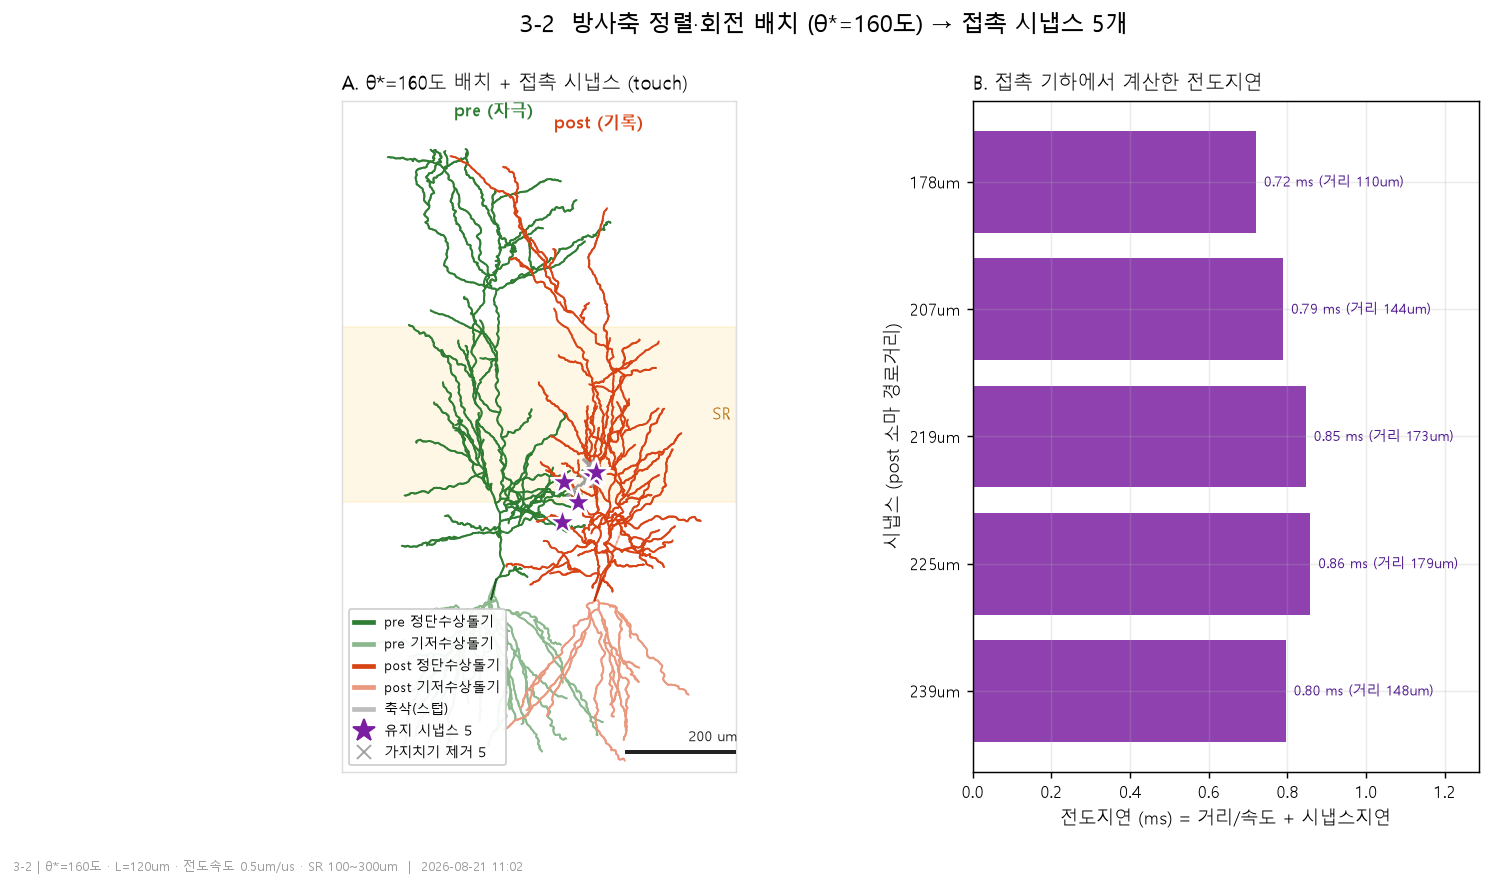
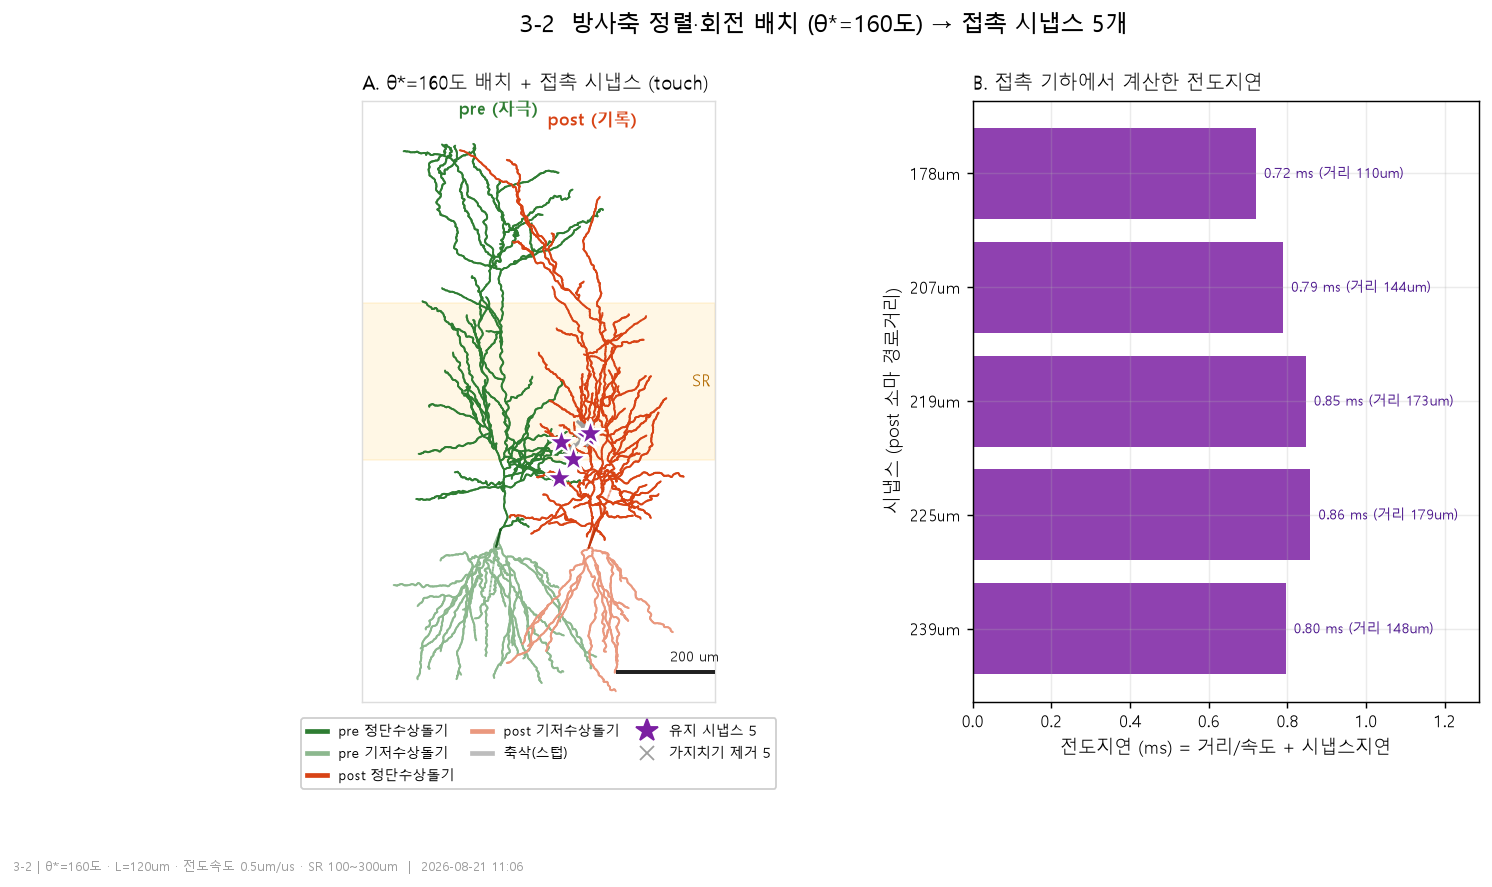
04 3-2: 기하 고정 + 범례를 뉴런 밖으로
- 범례를 축 아래 바깥(3열)으로 빼서 뉴런과 겹치지 않게.
- ★ 기하 확정: config/geometry.yaml 에 pre/post·θ*=160도·L=120um·시냅스 5개
  (apic[21,109,36,37,29], 지연 0.72~0.86ms) 박음. 사용자 지시 'fix'.
- lib/bench.Bench: 확정 기하를 재현하는 로더. 두 세포 로드 + 5개 시냅스 구획 제공.
  이후 단계는 배치 재탐색 없이 이 벤치 위에 메커니즘만 얹는다. 재현 확인 완료.
- D8 갱신, PIPELINE 3-2 '기하 고정' 표기.

diff --git a/04_Synaptic_plasticity_Simulation/lib/bench.py b/04_Synaptic_plasticity_Simulation/lib/bench.py
@@ -1,0 +1,58 @@
+# -*- coding: utf-8 -*-
+"""lib/bench.py — 확정 기하 벤치 로더 (번호 없음 = import 전용 모듈)
+
+3-2 에서 고정한 기하(config/geometry.yaml)를 그대로 재현한다. 이후 모든 단계
+(전달 검증·가소성 엔진·실험)는 이 모듈로 동일한 두 세포와 동일한 시냅스 위치를 얻는다.
+=> 단계마다 배치를 다시 탐색하지 않는다. 기하는 fix 됐다. (docs/DECISIONS.md D8)
+
+시냅스 '위치'만 고정한다. 위에 올릴 시냅스 메커니즘(전도도·수용체·가소성 엔진)은
+호출자가 정한다 -- 그게 이 벤치의 목적이다.
+"""
+import os
+import yaml
+
+from lib import cells
+from lib.nrnenv import h
+
+_ROOT = os.path.dirname(os.path.dirname(os.path.abspath(__file__)))
+_REPO = os.path.dirname(_ROOT)
+
+
+def load_geometry():
+    with open(os.path.join(_ROOT, "config", "geometry.yaml"), "r", encoding="utf-8") as f:
+        return yaml.safe_load(f)
+
+
+class Bench:
+    """확정 기하의 두 세포 + 시냅스 위치. NEURON 객체 참조를 붙잡아 GC 를 막는다."""
+
+    def __init__(self, geo=None):
+        self.geo = geo or load_geometry()
+        mr = os.path.join(_REPO, "Models")
+        self.pre, _ = cells.load_cell(os.path.join(mr, self.geo["pair"]["pre_bundle"]), "pre")
+        self.post, _ = cells.load_cell(os.path.join(mr, self.geo["pair"]["post_bundle"]), "post")
+        self._sec = {s.name().split(".")[-1]: s for s in self.post.all}
+        self.syn_specs = self.geo["synapses"]     # section·delay·... (위치 정보)
+
+    def post_syn_segs(self, x=0.5):
+        """확정 시냅스가 놓일 post 세그먼트 목록 [(seg, spec), ...]."""
+        out = []
+        for spec in self.syn_specs:
+            sec = self._sec.get(spec["section"])
+            if sec is None:
+                raise KeyError(f"확정 시냅스 구획 없음: {spec['section']} "
+                               f"(post 세포가 바뀌었는가? config/geometry.yaml 확인)")
+            out.append((sec(x), spec))
+        return out
+
+    def pre_soma_seg(self):
+        return self.pre.soma[0](0.5)
+
+    def post_soma_seg(self):
+        return self.post.soma[0](0.5)
+
+    def n_syn(self):
+        return len(self.syn_specs)
+
+    def delays(self):
+        return [s["delay_ms"] for s in self.syn_specs]

diff --git a/04_Synaptic_plasticity_Simulation/03_synapse/2_placement/3-2_placement.py b/04_Synaptic_plasticity_Simulation/03_synapse/2_placement/3-2_placement.py
@@ -219,9 +219,11 @@ def main():
     ]
     labels = ["pre 정단수상돌기", "pre 기저수상돌기", "post 정단수상돌기", "post 기저수상돌기",
               "축삭(스텁)", f"유지 시냅스 {len(syn)}", f"가지치기 제거 {len(prune_i)}"]
-    axA.legend(handles, labels, loc="lower left", fontsize=7.6, framealpha=0.92,
-               ncol=1, handlelength=1.4)
-    mo.scalebar(axA, 200, "200 um", loc=(0.72, 0.03))
+    # 범례를 축 아래 바깥으로 빼서 뉴런과 겹치지 않게. 가로로 눕혀 공간 절약.
+    axA.legend(handles, labels, loc="upper center", bbox_to_anchor=(0.5, -0.02),
+               fontsize=8, framealpha=0.95, ncol=3, handlelength=1.4,
+               columnspacing=1.2, borderaxespad=0.3)
+    mo.scalebar(axA, 200, "200 um", loc=(0.72, 0.05))
 
     ypos = np.arange(len(syn))
     delays = [s["delay"] for s in syn]
@@ -238,7 +240,7 @@ def main():
 
     fig2.suptitle(f"3-2  방사축 정렬·회전 배치 (θ*={theta:.0f}도) → 접촉 시냅스 {len(syn)}개",
                   fontsize=12.5, y=0.98)
-    fig2.subplots_adjust(top=0.88, bottom=0.12, wspace=0.18)
+    fig2.subplots_adjust(top=0.88, bottom=0.20, wspace=0.18)
     plots.stamp(fig2, f"3-2 | θ*={theta:.0f}도 · L={SOMA_LATERAL_L:.0f}um · 전도속도 {V_COND}um/us · SR {SR_MIN:.0f}~{SR_MAX:.0f}um")
     plots.save(fig2, outdir, "3-2_syn_sites.png")
 

diff --git a/04_Synaptic_plasticity_Simulation/docs/DECISIONS.md b/04_Synaptic_plasticity_Simulation/docs/DECISIONS.md
@@ -159,6 +159,15 @@ pre→post 전달은 **막 접촉이 아니라 NetCon + 전도지연**으로 만
   전도지연은 3D 거리 기반.
 - L(소마-소마 측방거리)은 모델링 값(수상돌기 필드가 겹치는 생물학적 범위 내). 캡션에 명기.
 
+**기하 고정 (2026-08-21, 사용자 지시 "이 기하학적 구조는 fix하자")**
+3-2 탐색 결과를 `config/geometry.yaml` 에 **확정값으로 박았다.** 이후 모든 단계는 배치를 다시
+탐색하지 않고 `lib/bench.Bench` 로 이 기하를 재현한다.
+- pre=oh140807_A0_idF · post=oh140807_A0_idC · θ*=160° · L=120µm
+- 시냅스 5개: apic[21]·apic[109]·apic[36]·apic[37]·apic[29], 지연 0.72~0.86ms
+- `Bench` 가 두 세포를 로드하고 이 5개 구획을 그대로 찾아 시냅스 '위치'를 제공한다.
+  위에 올릴 메커니즘(전도도·수용체·가소성 엔진)은 각 단계가 정한다 — 그게 벤치의 목적.
+- geometry.yaml 을 바꾸면 3-2 를 다시 돌려 시냅스 위치·지연을 재생성해야 한다.
+
 ---
 
 ## 미결

diff --git a/04_Synaptic_plasticity_Simulation/docs/PIPELINE.md b/04_Synaptic_plasticity_Simulation/docs/PIPELINE.md
@@ -41,7 +41,7 @@
 | **2-6** | `02_neurons/6_pair` | `2-6_two_cells.py` | `2-6_two_cells.png` · `2-6_pair.json` | ✅ |
 | **2-7** | `02_neurons/7_distance` | `2-7_distance_map.py` | `2-7_distance_map.png` | ⬜ |
 | **3-1** | `03_synapse/1_params` | `3-1_param_table.py` | `3-1_param_table.png` | ⬜ |
-| **3-2** | `03_synapse/2_placement` | `3-2_placement.py` | `3-2_syn_sites.png` · `3-2_placement.json` | ✅ |
+| **3-2** | `03_synapse/2_placement` | `3-2_placement.py` | `3-2_rotation.png` · `3-2_syn_sites.png` · `3-2_placement.json` | ✅ **기하 고정** |
 | **3-3** | `03_synapse/3_wiring` | `3-3_wiring.py` | `3-3_wiring_diagram.png` | ⬜ |
 | **3-4** | `03_synapse/4_record` | `3-4_record.py` | `3-4_record_check.png` | ⬜ |
 | **3-5** | `03_synapse/5_uepsp` | `3-5_uepsp.py` | `3-5_uepsp_trace.png` · `3-5_uepsp_stats.png` | ⬜ |
